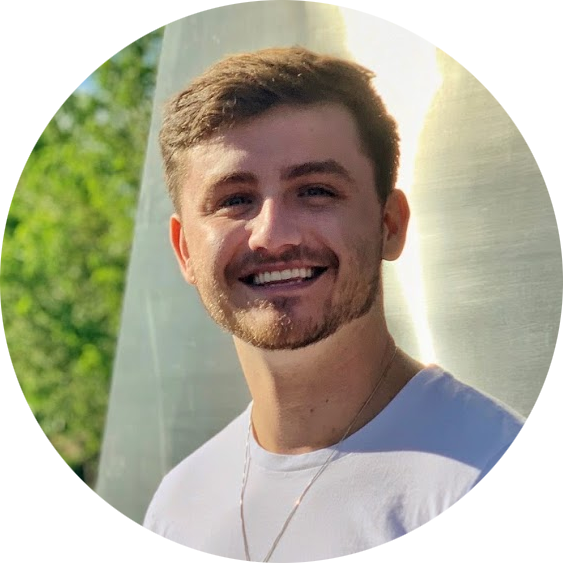
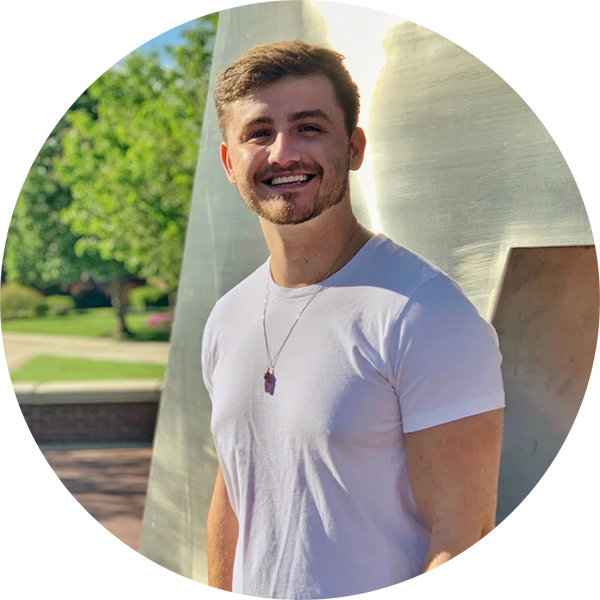
Created About Me image gallery

diff --git a/index.html b/index.html
@@ -9,6 +9,7 @@
     <script src='navigation.js'></script>
     <script src='type-title.js'></script>
     <script src='expand.js'></script>
+    <script src='img-hover.js'></script>
 </head>
 
 <body>
@@ -127,19 +128,38 @@
         </div>
     </section>
     <section id='about'>
-        <div id='profile'>
-            <img alt="Rhett Hancock Headshot" src="images/profile2.png">
+        <div id='gallery'>
+            <div id='gallery-img'>
+                <img alt='Rhett Hancock Headshot' id='profile' src='images/profile.png'>
+                <img alt='Minecraft Base' class='hide' id='minecraft' src='images/minecraft-base.png'>
+                <img alt='Mars Capture' class='hide' id='mars' src='images/mars.png'>
+                <img alt='Bali Temple' class='hide' id='bali' src='images/bali-temple.png'>
+            </div>
+            <div id='captions'>
+                <p class='caption hide' id='cap-minecraft'>
+                    <span class='line'>My Minecraft survival mansion,</span>
+                    <span class='line'>March 12, 2016 - Present</span>
+                </p>
+                <p class='caption hide' id='cap-mars'>
+                    <span class='line'>The planet Mars, photographed</span>
+                    <span class='line'>October 6, 2020 through my telescope</span>
+                </p>
+                <p class='caption hide' id='cap-bali'>
+                    <span class='line'>Tunjung Beji Ulun Danu Beratan Temple</span>
+                    <span class='line'>in Bali Indonesia, January 6, 2020</span>
+                </p>
+            </div>
         </div>
         <div id='bio'>
             <h2>About Me</h2>
             <p><strong>Hello and welcome to my portfolio website! My name is Rhett, I'm a full-stack developer & designer with 8+ years of professional experience.</strong></p>
             <p>I really enjoy working on projects that live on the Internet, from designing & developing entire websites, to creating highly interactive & visual applications. I pride myself on my creativity and pixel-perfect attention to detail.</p>
-            <p>In May 2020, I graduated from Boise State University with a B.S. Computer Science degree. During my studies, I maintained full-time employment, working in a variety of different roles, including as a website designer & developer, support analyst, documentation specialist, and most-recently as a front-end engineer.</p>
+            <p>In May 2020, I graduated from <a href='https://www.boisestate.edu/' id='bsu-link' target='_blank'>Boise State University</a> with a B.S. Computer Science degree. During my studies, I maintained full-time employment, working in a variety of different roles, including as a website designer & developer, support analyst, documentation specialist, and most-recently as a front-end engineer.</p>
             <p>I spend my free time doing all sorts of fun things:</p>
             <ul>
-                <li>PC Gaming (Minecraft)</li>
-                <li>Astrophotography</li>
-                <li>Traveling The World</li>
+                <li id='minecraft-hover'>PC Gaming (Minecraft)</li>
+                <li id='mars-hover'>Astrophotography</li>
+                <li id='bali-hover'>Traveling The World</li>
             </ul>
             <a class='cta' href='#experience'>See My Experience</a>
         </div>

diff --git a/img-hover.js b/img-hover.js
@@ -1,0 +1,48 @@
+// On page load
+window.addEventListener('load', (event) => {
+    // Assign pointers
+    let img_profile = document.getElementById('profile');
+    let img_mc = document.getElementById('minecraft');
+    let img_mars = document.getElementById('mars');
+    let img_bali = document.getElementById('bali');
+    let hov_mc = document.getElementById('minecraft-hover');
+    let hov_mars = document.getElementById('mars-hover');
+    let hov_bali = document.getElementById('bali-hover');
+    let cap_mc = document.getElementById('cap-minecraft');
+    let cap_mars = document.getElementById('cap-mars');
+    let cap_bali = document.getElementById('cap-bali');
+
+    // Hover and blur handlers
+    hov_mc.addEventListener('mouseover', (event) => {
+        img_profile.classList.add('hide');
+        img_mc.classList.remove('hide');
+        cap_mc.classList.remove('hide');
+    });
+    hov_mc.addEventListener('mouseout', (event) => {
+        img_profile.classList.remove('hide');
+        img_mc.classList.add('hide');
+        cap_mc.classList.add('hide');
+    });
+
+    hov_mars.addEventListener('mouseover', (event) => {
+        img_profile.classList.add('hide');
+        img_mars.classList.remove('hide');
+        cap_mars.classList.remove('hide');
+    });
+    hov_mars.addEventListener('mouseout', (event) => {
+        img_profile.classList.remove('hide');
+        img_mars.classList.add('hide');
+        cap_mars.classList.add('hide');
+    });
+
+    hov_bali.addEventListener('mouseover', (event) => {
+        img_profile.classList.add('hide');
+        img_bali.classList.remove('hide');
+        cap_bali.classList.remove('hide');
+    });
+    hov_bali.addEventListener('mouseout', (event) => {
+        img_profile.classList.remove('hide');
+        img_bali.classList.add('hide');
+        cap_bali.classList.add('hide');
+    });
+});

diff --git a/styles.css b/styles.css
@@ -98,6 +98,19 @@ section:last-child {
 #bio strong {
     color:#ffd400;
 }
+#bsu-link {
+    color:#fff;
+    font-weight:bold;
+    text-decoration-color:#666;
+    transition:all 250ms;
+}
+#bsu-link:hover {
+    color:#d64309;
+    text-decoration-color:#406098;
+}
+#captions {
+    position:relative;
+}
 #closing {
     font-size:24px;
     margin:40px 0 70px;
@@ -129,6 +142,15 @@ section:last-child {
 }
 #experience h2 {
     text-align:left;
+}
+#gallery-img {
+    border:1px solid #ffd400;
+    border-radius:50%;
+    max-width:600px;
+    padding:20px;
+}
+#gallery img {
+    transition:all 500ms;
 }
 #intro {
     font-size:1.5em;
@@ -230,6 +252,7 @@ section:last-child {
 }
 #nav a.box {
     border:1px solid;
+    border-radius:4px;
     margin:30px;
     padding:5px 15px;
 }
@@ -282,12 +305,6 @@ section:last-child {
 #primary a:hover {
     border:2px dashed #000;
     color:#000;
-}
-#profile {
-    border:1px solid #ffd400;
-    border-radius:50%;
-    max-width:600px;
-    padding:20px;
 }
 #projects {
     align-content:center;
@@ -488,6 +505,18 @@ section:last-child {
 .button-group .cta {
     margin:20px;
 }
+.caption {
+    color:#666;
+    font-size:18px;
+    margin:40px auto;
+    position:absolute;
+    text-align:center;
+    transition:all 250ms;
+    width:100%;
+}
+.caption.hide {
+    margin:0;
+}
 .col {
     padding:4em;
 }
@@ -540,6 +569,9 @@ section:last-child {
     display:block;
     height:25px;
     width:25px;
+}
+.line {
+    display:block;
 }
 .loaded #background {
     opacity:1;
